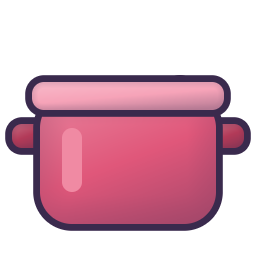
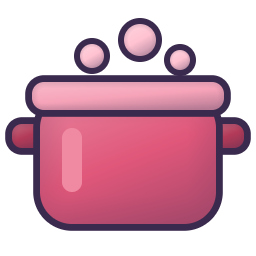
The 2D garden keeps the pink pot with its painted bubbles until #136 brings Shuriken steam, and the bubble-free pot moves to docs/anh/po-146/prop_noi-mut.png for the 2.5D stands.

Changed region(s): [[0.2812, 0.0625, 0.7812, 0.3125]]

diff --git a/docs/anh/qa/sua-146-asset/VERDICT.md b/docs/anh/qa/sua-146-asset/VERDICT.md
@@ -8,7 +8,7 @@ VERDICT: APPROVED
 2. pass - các lớp giữ nguyên khung và vị trí; các khung hình clip không giật
 3. pass - viền Ink trên mọi phần; lông rig kéo về tông Thỏ Bông (#FEF4DA); nồi hồng vẫn là placeholder nét dày, sẽ thay ở #131
 4. pass - hết viền xám xanh ở quầy, đèn, nắp ấm, giọt và lấp lánh; tam giác giữa mái và xà của quầy giờ trong suốt
-5. pass - bỏ bong bóng vẽ sẵn trên nồi hồng; hơi và bọt sẽ làm bằng Shuriken
+5. pass - bản 2.5D của nồi hồng (docs/anh/po-146/prop_noi-mut.png) không có bong bóng vẽ sẵn; bản 2D giữ bong bóng cho tới khi #136 có hơi bằng Shuriken
 6. pass - kích thước không đổi; bóng dưới chân là phần code (ASSET-012)
 7. không áp dụng (không có UI)
 ```
